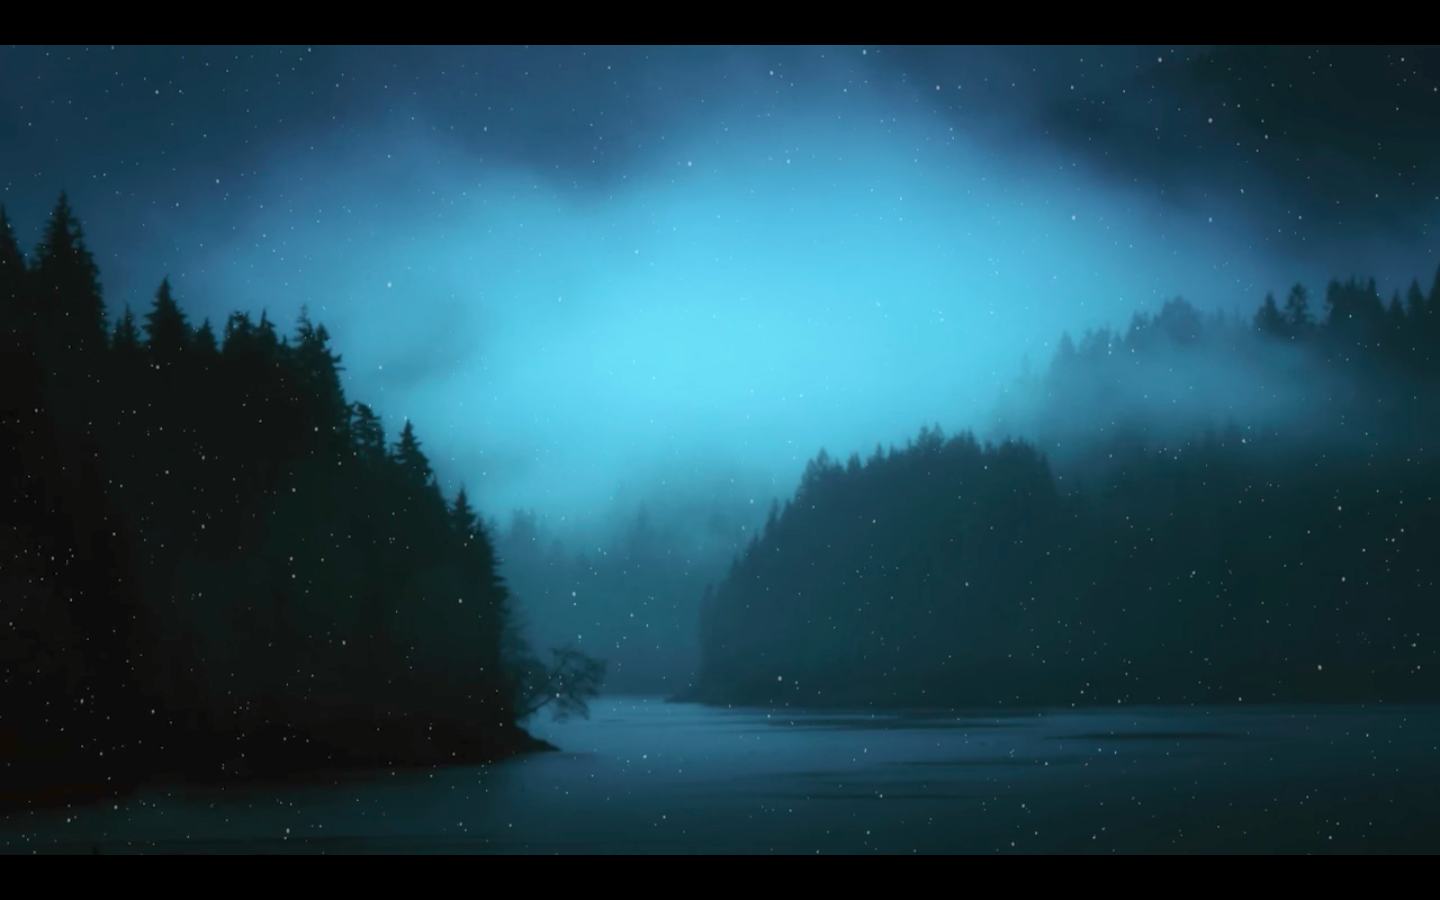
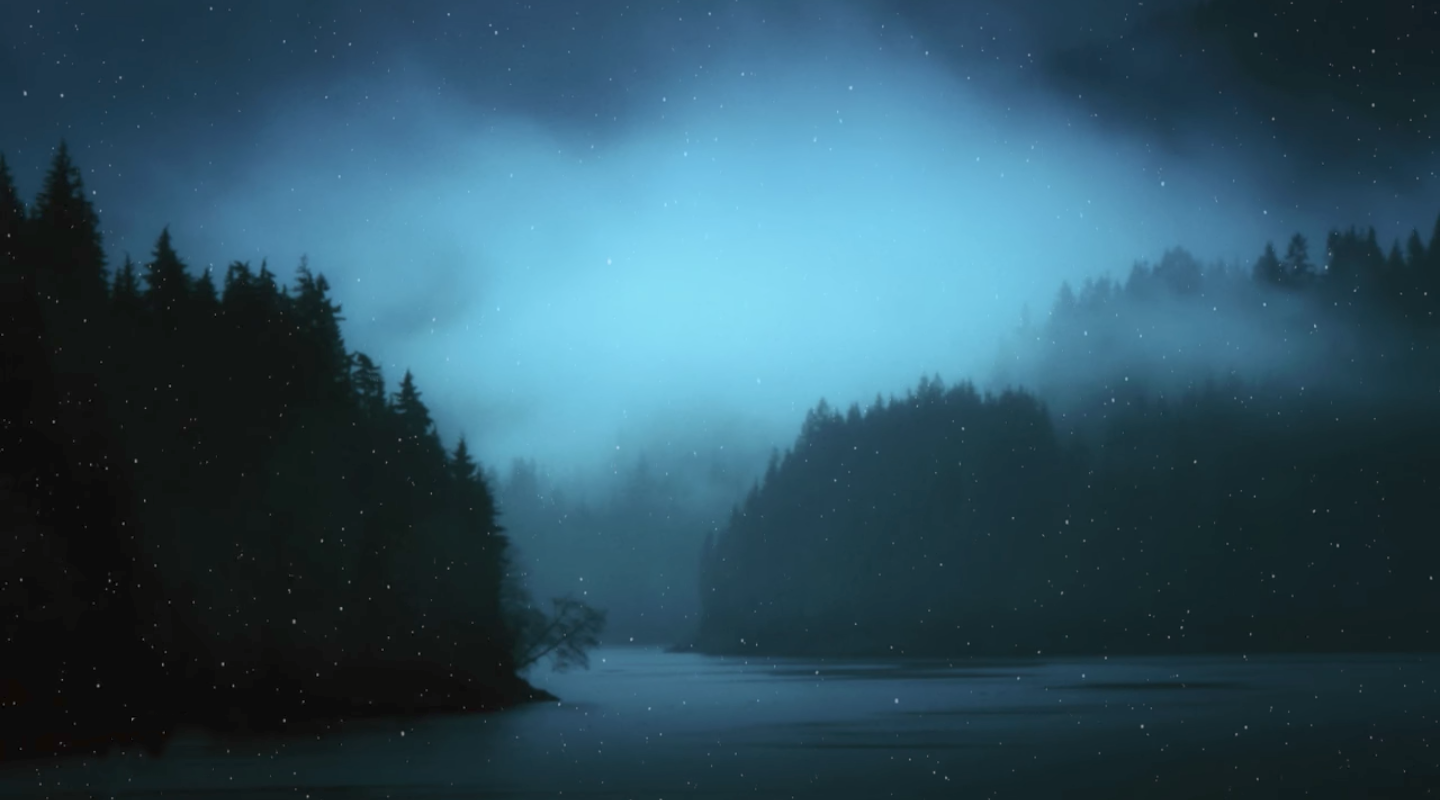
bit o smoothin, removed border

diff --git a/stuff/snowy-bg/style.css b/stuff/snowy-bg/style.css
@@ -13,7 +13,7 @@ body {
 }
 
 .pos {
-  background-position: 0 -20%;
+  background-position: 0 -10%;
 }
 
 .loader-bg {
@@ -30,8 +30,8 @@ body {
 }
 
 .loop {
-  animation: looper 4.5s infinite;
-  -webkit-animation: looper 4.5s infinite;
+  animation: looper 7.5s infinite;
+  -webkit-animation: looper 7.5s infinite;
 }
 
 
@@ -137,172 +137,171 @@ body {
     background-image: url('bg-1.png');
 
   }
-  9% {
-    background-image: url('bg-1.png');
-
-  }
-  10% {
+  5% {
    background-image: url('bg-2.png'); 
 
   }
-  19% {
-   background-image: url('bg-2.png');
+  10% {
+   background-image: url('bg-3.png');
    
   }
-  20% {
-    background-image: url('bg-3.png');
+  15% {
+    background-image: url('bg-4.png');
     
   }
-  29% {
-    background-image: url('bg-3.png');
+  20% {
+    background-image: url('bg-5.png');
+    
+  }
+  25% {
+    background-image: url('bg-6.png');
     
   }
   30% {
-    background-image: url('bg-4.png');
+    background-image: url('bg-7.png');
     
   }
-  39% {
-    background-image: url('bg-4.png');
+  35% {
+    background-image: url('bg-8.png');
     
   }
   40% {
-    background-image: url('bg-5.png');
+    background-image: url('bg-9.png');
     
   }
-  49% {
-    background-image: url('bg-5.png');
+  45% {
+    background-image: url('bg-10.png');
     
   }
   50% {
-    background-image: url('bg-6.png');
+    background-image: url('bg-11.png');
     
   }
-  59% {
-    background-image: url('bg-6.png');
+  55% {
+    background-image: url('bg-12.png');
     
   }
   60% {
-    background-image: url('bg-7.png');
+    background-image: url('bg-13.png');
     
   }
-  69% {
-    background-image: url('bg-7.png');
+  65% {
+    background-image: url('bg-14.png');
     
   }
   70% {
-    background-image: url('bg-8.png');
+    background-image: url('bg-15.png');
     
   }
-  79% {
-    background-image: url('bg-8.png');
+  75% {
+    background-image: url('bg-16.png');
     
   }
   80% {
-    background-image: url('bg-9.png');
+    background-image: url('bg-17.png');
     
   }
-  89% {
-    background-image: url('bg-9.png');
+  85% {
+    background-image: url('bg-18.png');
     
   }
   90% {
-    background-image: url('bg-99.png');
+    background-image: url('bg-19.png');
     
   }
-  99% {
-    background-image: url('bg-99.png');
+  95% {
+    background-image: url('bg-20.png');
     
   }
   100% {
-    background-image: url('bg-1.png');
+    background-image: url('bg-21.png');
     
   }
 
 }
 @-webkit-keyframes looper {
-  0% {
+    0% {
     background-image: url('bg-1.png');
-    
+
   }
-  9% {
-    background-image: url('bg-1.png');
-    
+  5% {
+   background-image: url('bg-2.png'); 
+
   }
   10% {
-   background-image: url('bg-2.png'); 
+   background-image: url('bg-3.png');
    
   }
-  19% {
-   background-image: url('bg-2.png');
-   
-  }
-  20% {
-    background-image: url('bg-3.png');
+  15% {
+    background-image: url('bg-4.png');
     
   }
-  29% {
-    background-image: url('bg-3.png');
+  20% {
+    background-image: url('bg-5.png');
+    
+  }
+  25% {
+    background-image: url('bg-6.png');
     
   }
   30% {
-    background-image: url('bg-4.png');
+    background-image: url('bg-7.png');
     
   }
-  39% {
-    background-image: url('bg-4.png');
+  35% {
+    background-image: url('bg-8.png');
     
   }
   40% {
-    background-image: url('bg-5.png');
+    background-image: url('bg-9.png');
     
   }
-  49% {
-    background-image: url('bg-5.png');
+  45% {
+    background-image: url('bg-10.png');
     
   }
   50% {
-    background-image: url('bg-6.png');
+    background-image: url('bg-11.png');
     
   }
-  59% {
-    background-image: url('bg-6.png');
+  55% {
+    background-image: url('bg-12.png');
     
   }
   60% {
-    background-image: url('bg-7.png');
+    background-image: url('bg-13.png');
     
   }
-  69% {
-    background-image: url('bg-7.png');
+  65% {
+    background-image: url('bg-14.png');
     
   }
   70% {
-    background-image: url('bg-8.png');
+    background-image: url('bg-15.png');
     
   }
-  79% {
-    background-image: url('bg-8.png');
+  75% {
+    background-image: url('bg-16.png');
     
   }
   80% {
-    background-image: url('bg-9.png');
-   
+    background-image: url('bg-17.png');
+    
   }
-  89% {
-    background-image: url('bg-9.png');
+  85% {
+    background-image: url('bg-18.png');
     
   }
   90% {
-    background-image: url('bg-99.png');
+    background-image: url('bg-19.png');
     
   }
-  99% {
-    background-image: url('bg-99.png');
+  95% {
+    background-image: url('bg-20.png');
     
   }
   100% {
-    background-image: url('bg-1.png');
+    background-image: url('bg-21.png');
     
   }
-
 }
